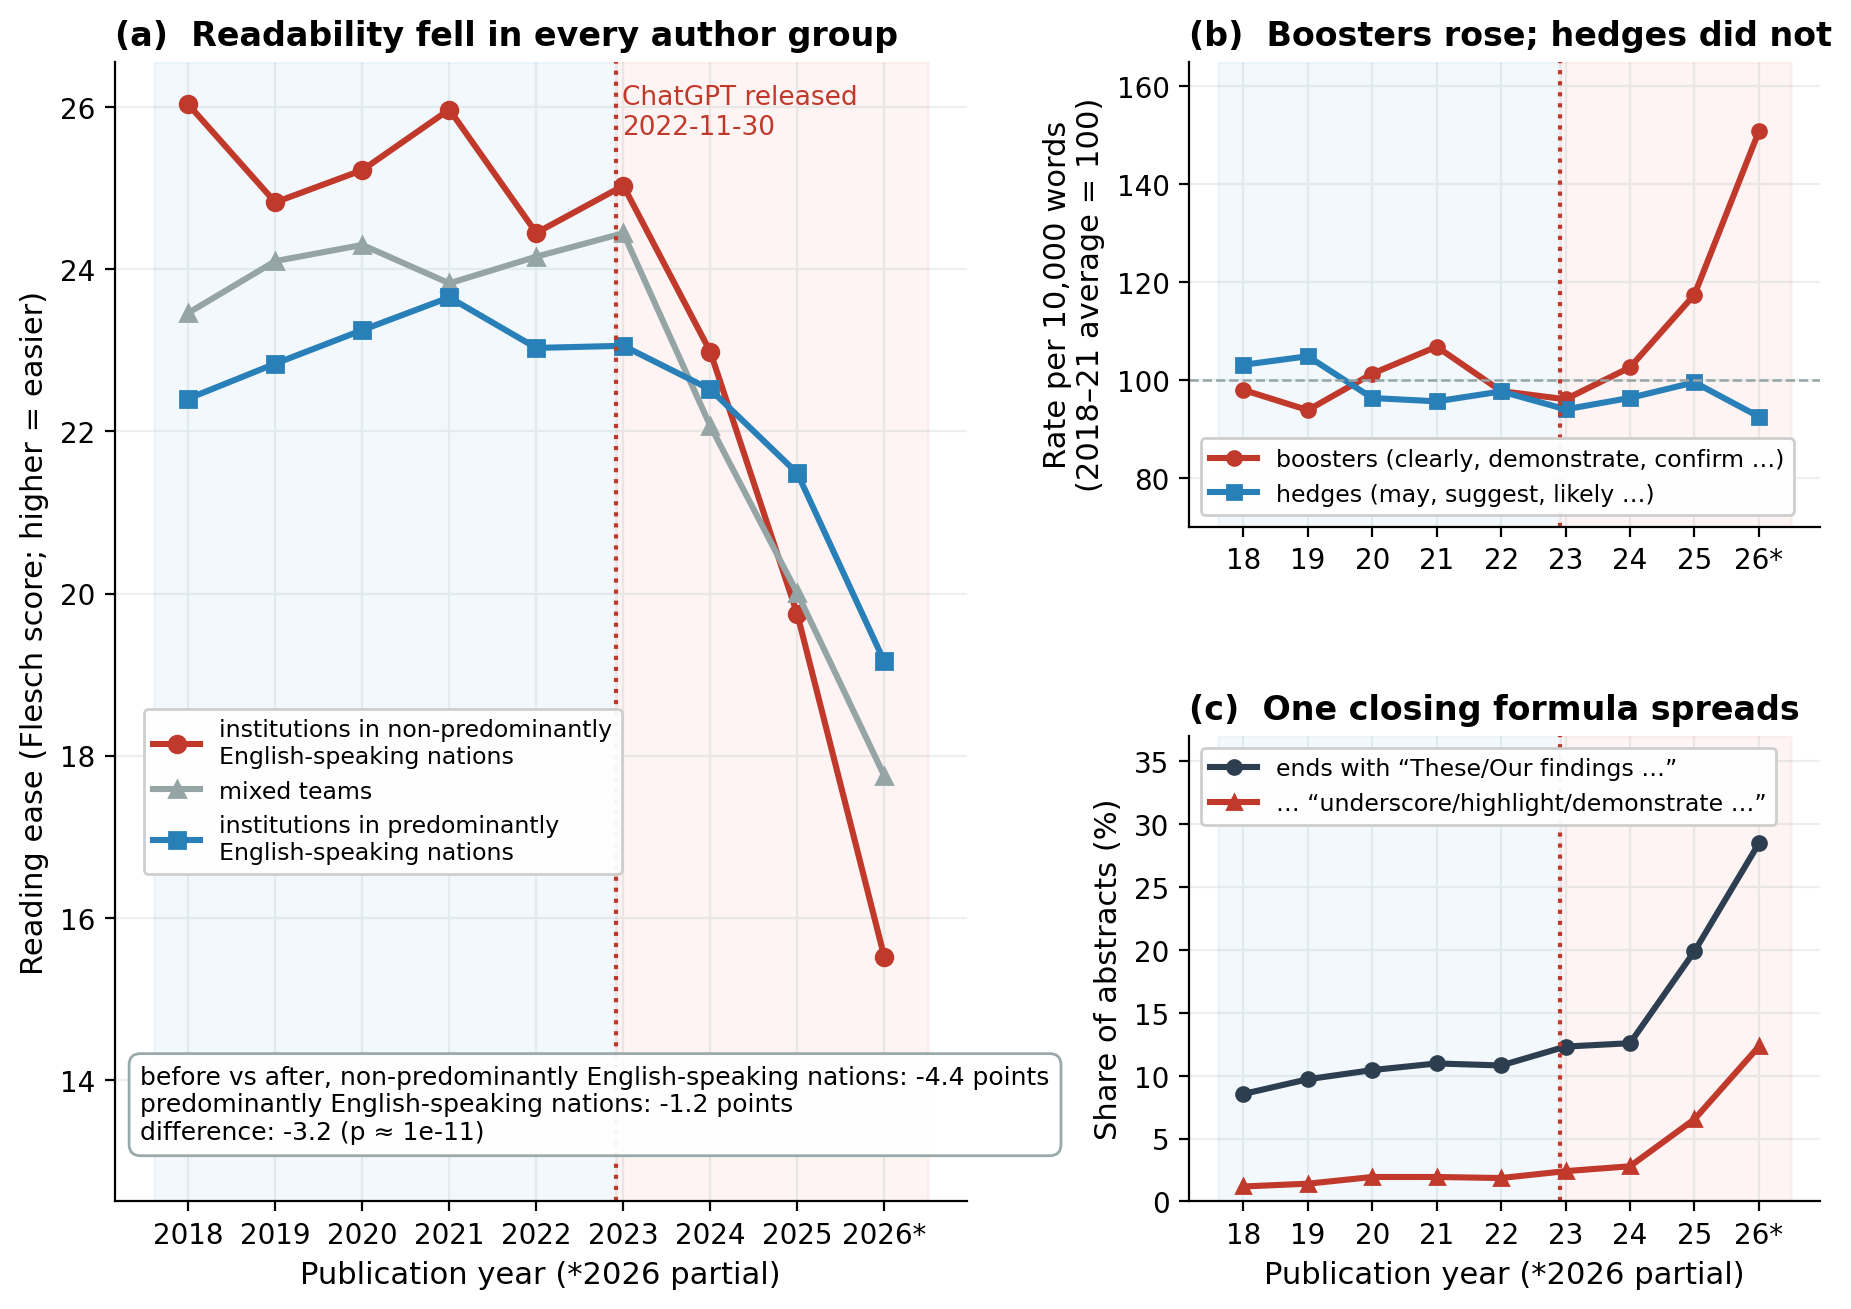
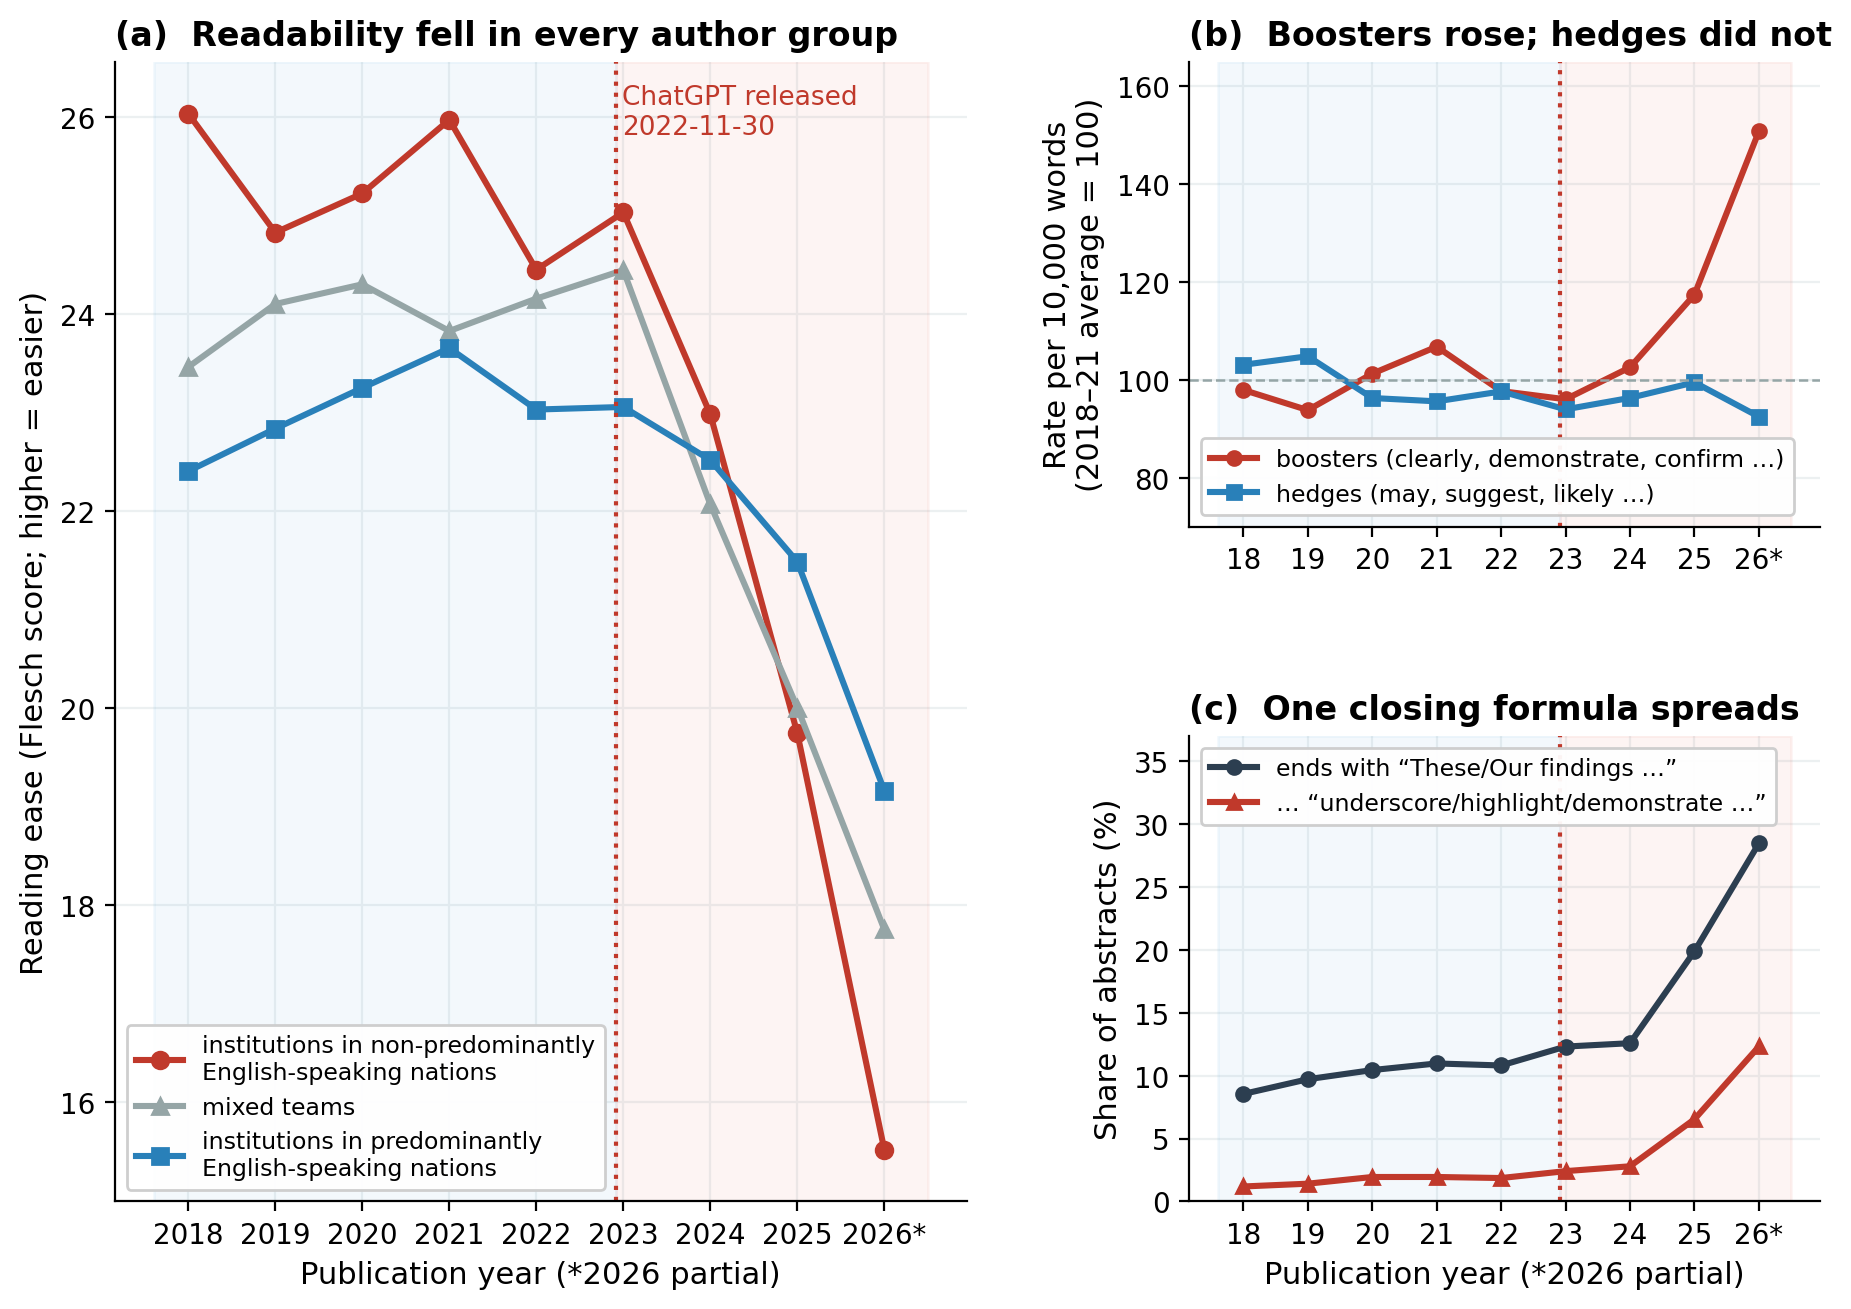
Fig 2a: remove in-panel text box

diff --git a/make_figures.py b/make_figures.py
@@ -259,16 +259,11 @@ for g, lab, col, mk in [("non_native", "institutions in non-predominantly\nEngli
 release_line(ax, label=True, y=0.98)
 d_non = mean(flesch_period[("non_native", "after")]) - mean(flesch_period[("non_native", "before")])
 d_nat = mean(flesch_period[("native", "after")]) - mean(flesch_period[("native", "before")])
-ax.text(0.03, 0.05, f"before vs after, non-predominantly English-speaking nations: {d_non:+.1f} points\n"
-        f"predominantly English-speaking nations: {d_nat:+.1f} points\ndifference: {d_non - d_nat:+.1f} (p ≈ 1e-11)",
-        transform=ax.transAxes, fontsize=9, va="bottom",
-        bbox=dict(boxstyle="round,pad=0.45", fc="white", ec=GRAY, alpha=0.95))
 year_ticks(ax, short=False)
 ax.set_xlabel("Publication year (*2026 partial)")
 ax.set_ylabel("Reading ease (Flesch score; higher = easier)")
 ax.set_title("(a)  Readability fell in every author group", loc="left")
-ax.set_ylim(12.5, ax.get_ylim()[1])
-ax.legend(loc="center left", bbox_to_anchor=(0.02, 0.36), fontsize=8.5)
+ax.legend(loc="lower left", fontsize=8.5)
 
 b = [1e4 * boosters_y[y] / words_y[y] for y in YEARS]
 h = [1e4 * hedges_y[y] / words_y[y] for y in YEARS]
